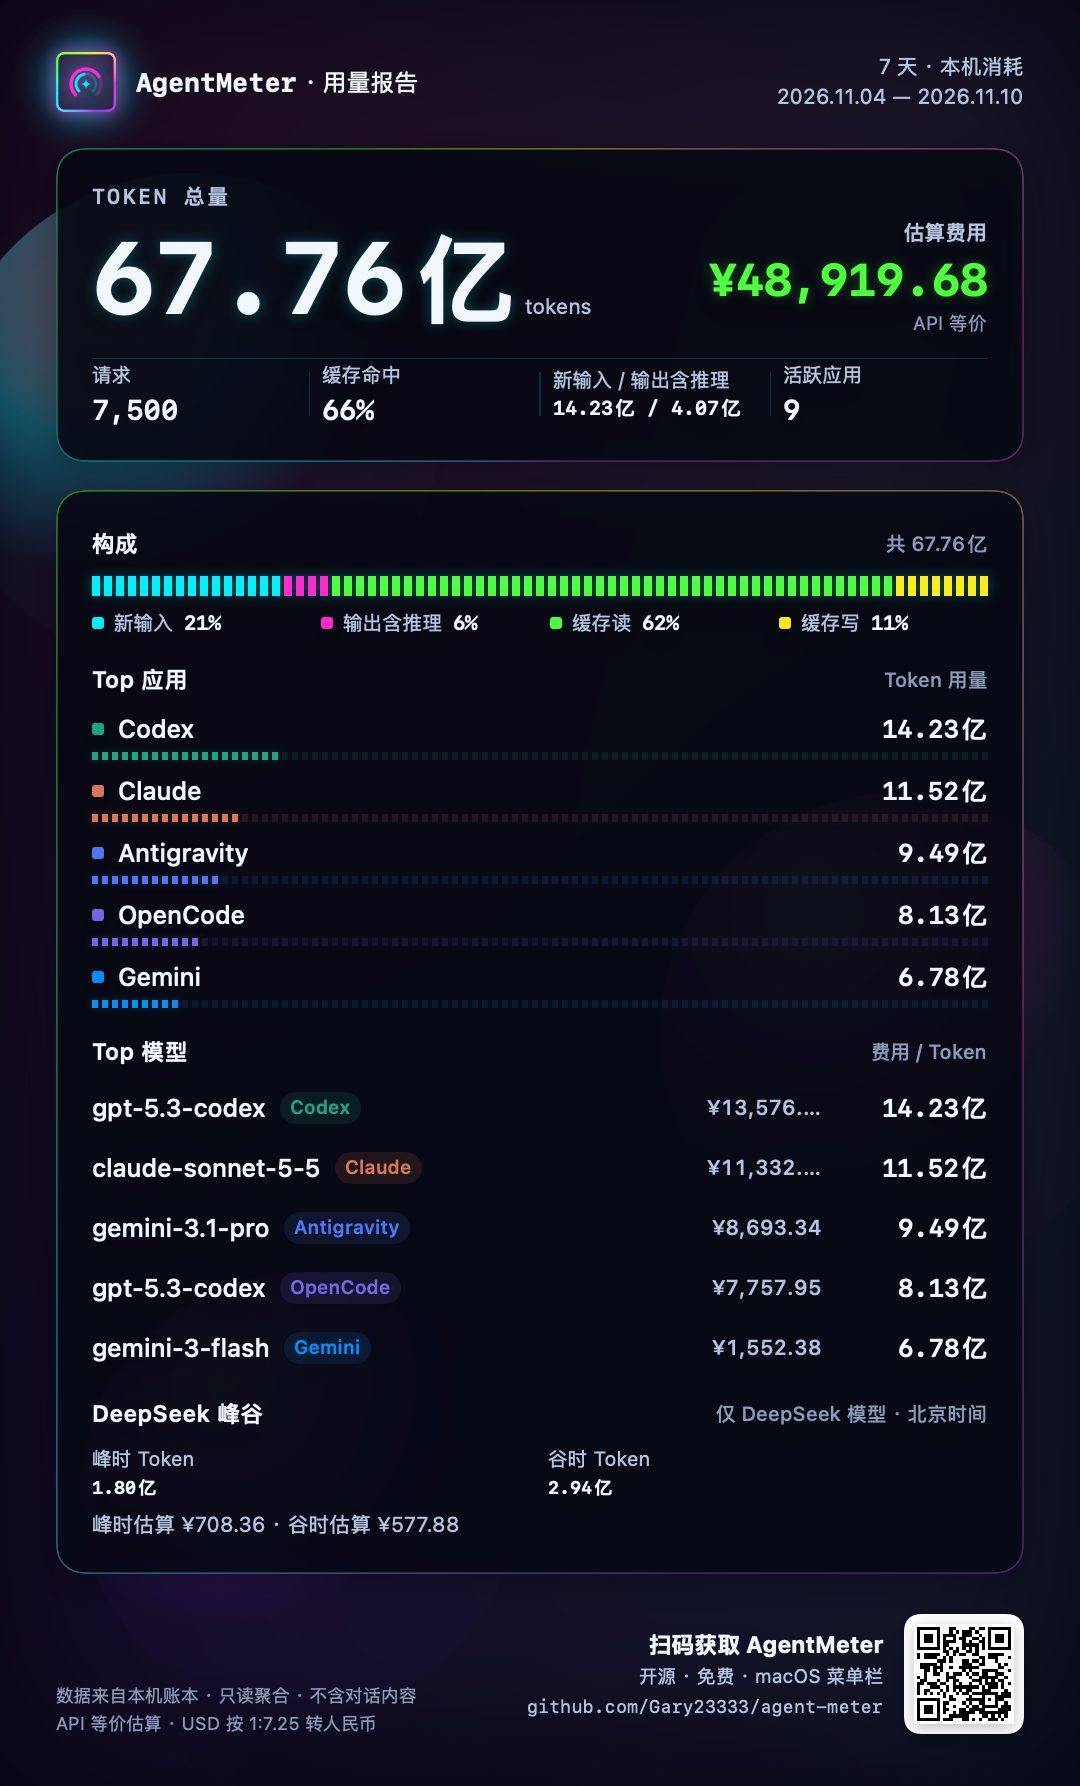
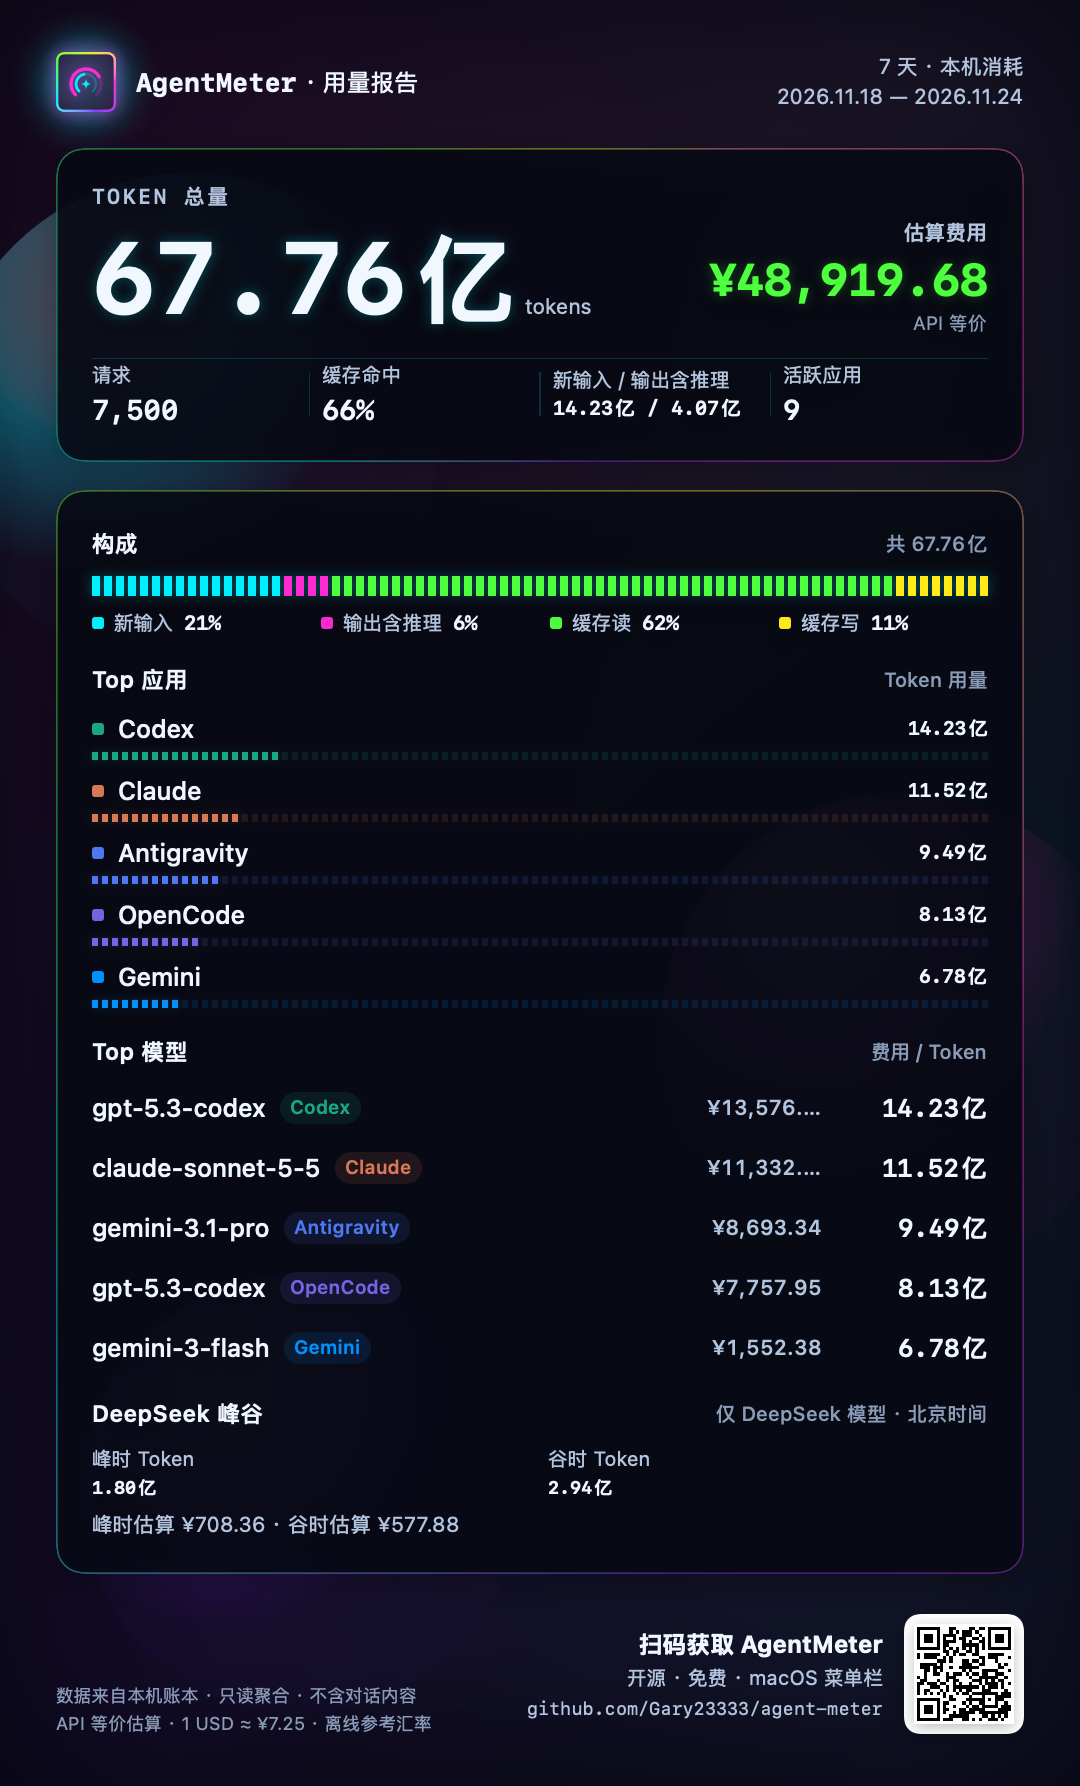
docs: regenerate README screenshots for 0.13.1
Render every demo screenshot from the 0.13.1 offline preview so they show
the 3D medals and resetter and the whole-point type scale, and rebuild the
theme sheets and ticker animation.

diff --git a/docs/images/README.md b/docs/images/README.md
@@ -1,6 +1,6 @@
 # README 演示截图
 
-本目录的图片全部由 **AgentMeter v0.10.4 自带的离线预览**生成，采用虚构账户、虚构额度、虚构余额与虚构用量历史，**没有读取真实账户、私有日志或登录凭据**；来源名称与模型名仅用于展示界面。卡册与奖章进度同样来自虚构数据。
+本目录的图片全部由 **AgentMeter v0.13.1 自带的离线预览**生成，采用虚构账户、虚构额度、虚构余额与虚构用量历史，**没有读取真实账户、私有日志或登录凭据**；来源名称与模型名仅用于展示界面。卡册与奖章进度同样来自虚构数据。
 
 - `accounts-light.png` / `accounts-dark.png`：账户额度、重置卡、积分钱包、续费提醒。
 - `usage-light.png` / `usage-dark.png`：本机 Token 构成、API 等价估算费用、按应用 / 模型排行与本周环比。
@@ -16,7 +16,7 @@
 
 ## 生成新的演示截图
 
-在 macOS 上，从仓库根目录执行；需要已构建的 release App，构建入口见[根 README](../../README.md#方式二从源码构建原生应用)。
+在 macOS 上，从仓库根目录执行；需要已构建的 release App，构建入口见[根 README](../../README.md#从源码构建)。
 
 ```sh
 python3 scripts/make-demo-snapshot.py
